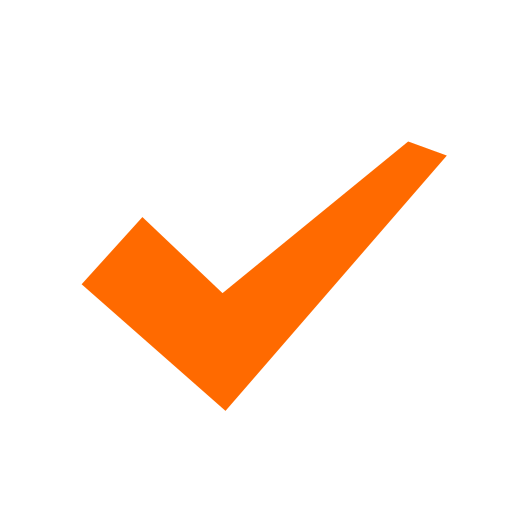
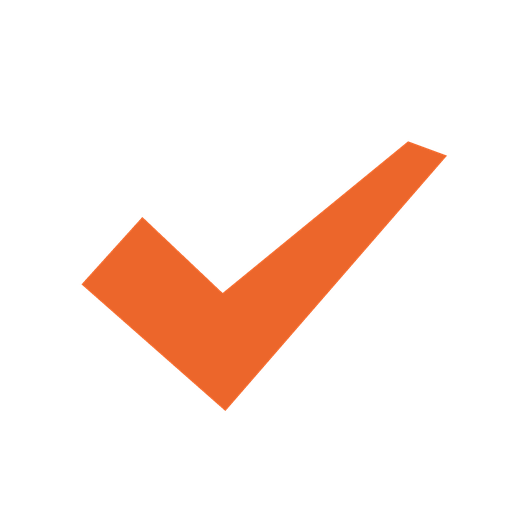
sync: verified-brand-mark-refresh (medium) — weekly fleet sync 2026-10-19

Changed region(s): [[0.1562, 0.2812, 0.875, 0.8125]]

diff --git a/brand/tools/make_preview.py b/brand/tools/make_preview.py
@@ -76,7 +76,7 @@ def main():
 
     y = 190
     y = row(canvas, y, LIGHT, [
-        ("primary", 256, "Primary. NPC Orange #FF6A00.\n24 px and up."),
+        ("primary", 256, "Primary. NPC Orange #ec662b.\n24 px and up."),
         ("small", 256, "Small variant. Heavier cut.\n16 to 32 px."),
         ("mono-black", 256, "Mono black.\nOne-color, light grounds."),
     ], "The three variants", "One gesture. No circle, no badge, no blue check.")

diff --git a/brand/tools/make_mark.py b/brand/tools/make_mark.py
@@ -21,7 +21,7 @@ BRAND_DIR = os.path.dirname(os.path.dirname(os.path.abspath(__file__)))
 SVG_DIR = os.path.join(BRAND_DIR, "svg")
 PNG_DIR = os.path.join(BRAND_DIR, "png")
 
-NPC_ORANGE = "#FF6A00"
+NPC_ORANGE = "#ec662b"
 MONO_BLACK = "#181818"
 MONO_WHITE = "#FFFFFF"
 

diff --git a/brand/USAGE.md b/brand/USAGE.md
@@ -30,7 +30,11 @@ rules, no edges, no other marks.
 
 ## Color
 
-- Default: NPC Orange, `#FF6A00`, on light or dark grounds.
+Color lock (Bayo, 2026-10-13): NPC Orange is `#ec662b`, program-wide.
+It supersedes the earlier `#FF6A00` everywhere the mark or the brand
+orange appears.
+
+- Default: NPC Orange, `#ec662b`, on light or dark grounds.
 - Mono black, `#181818`: one-color printing and single-color light-ground use.
 - Mono white, `#FFFFFF`: one-color use on dark grounds.
 - No other colors. Never recolor the mark to match a partner, a theme, or

diff --git a/brand/README.md b/brand/README.md
@@ -14,7 +14,7 @@ artwork replaces them. Nothing here ships anywhere on its own.
 
 One gesture: a single orange check. No circle, no badge, no blue checkmark.
 The stroke tapers from a confident entry to a light exit, and the long arm
-finishes with a forward slice. The color is NPC Orange, `#FF6A00`.
+finishes with a forward slice. The color is NPC Orange, `#ec662b`.
 
 The mark is always the check alone. The words "Verified by NPC" sit next to
 it in type, never baked into the artwork, so the mark never depends on a font.
